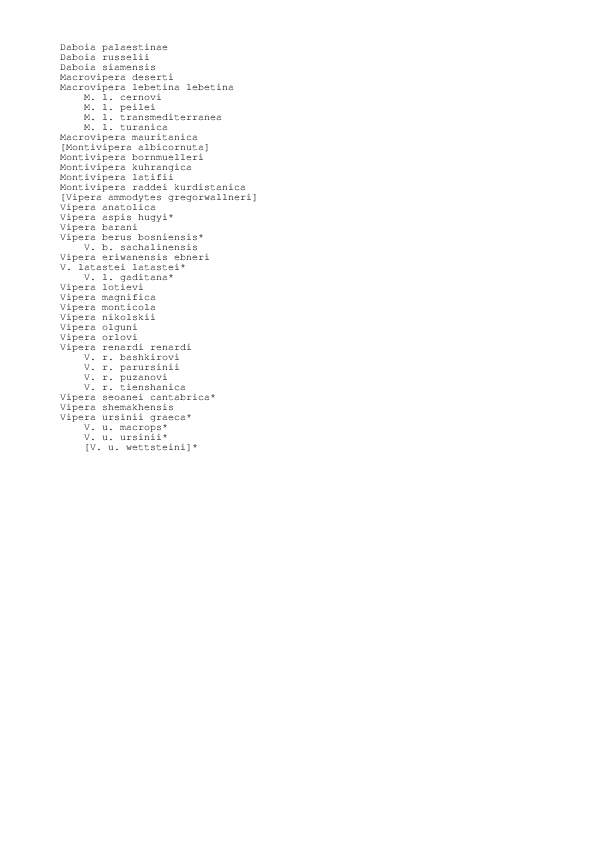
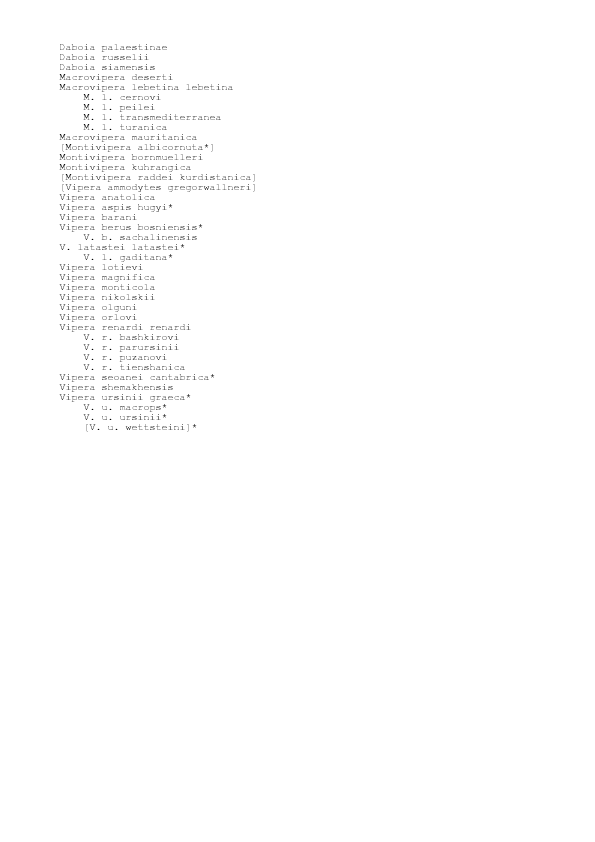
update 2016

Changed region(s): [[0.0908, 0.0618, 0.4235, 0.5558]]

diff --git a/lists/index.html b/lists/index.html
@@ -33,11 +33,11 @@ f&aring;gellistan</A>:</FONT></P>
 </P>
 <HR>
 <P><FONT FACE="Verdana, sans-serif"><SPAN STYLE="font-weight: normal">Huggormslistan:
-</SPAN><B>36%</B><SPAN STYLE="font-weight: normal"> (m&aring;l: 85%?)</SPAN></FONT></P>
+</SPAN><B>40%</B><SPAN STYLE="font-weight: normal"> (m&aring;l: 85%?)</SPAN></FONT></P>
 <P><FONT FACE="Verdana, sans-serif">Senaste huggorms-X:
-<B>Radde's huggorm</B>,
-<I>Montivipera raddei raddei</I>,
-Armenien, Maj 2015.</FONT></P>
+<B>Ebneri's huggorm</B>,
+<I>Vipera [eriwanensis] ebneri</I>,
+Iran, Juni 2016.</FONT></P>
 <P><FONT FACE="Verdana, sans-serif">Luckor, &quot;<A HREF="Vipera-list.html">Internationella
 Huggormslistan</A>&quot;:</FONT></P>
 <P><IMG SRC="Vipera-list-luckor.png" NAME="graphics2" ALIGN=LEFT  BORDER=0><BR><BR>
